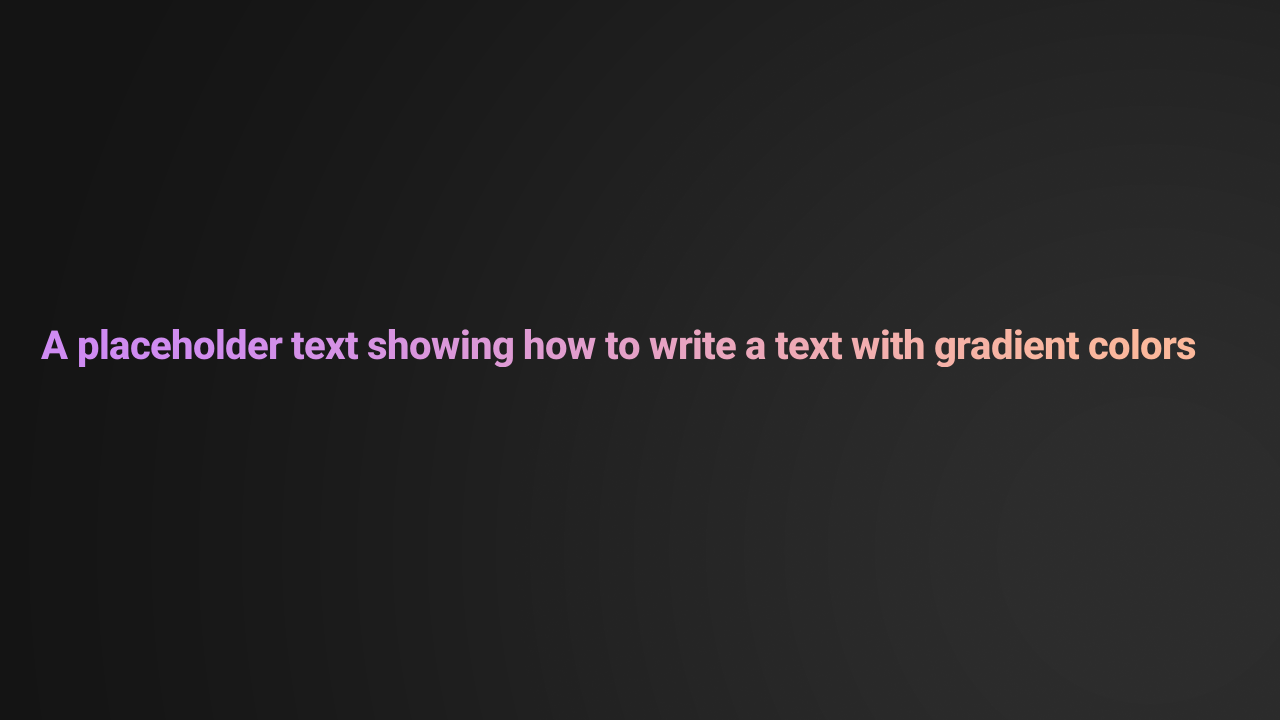
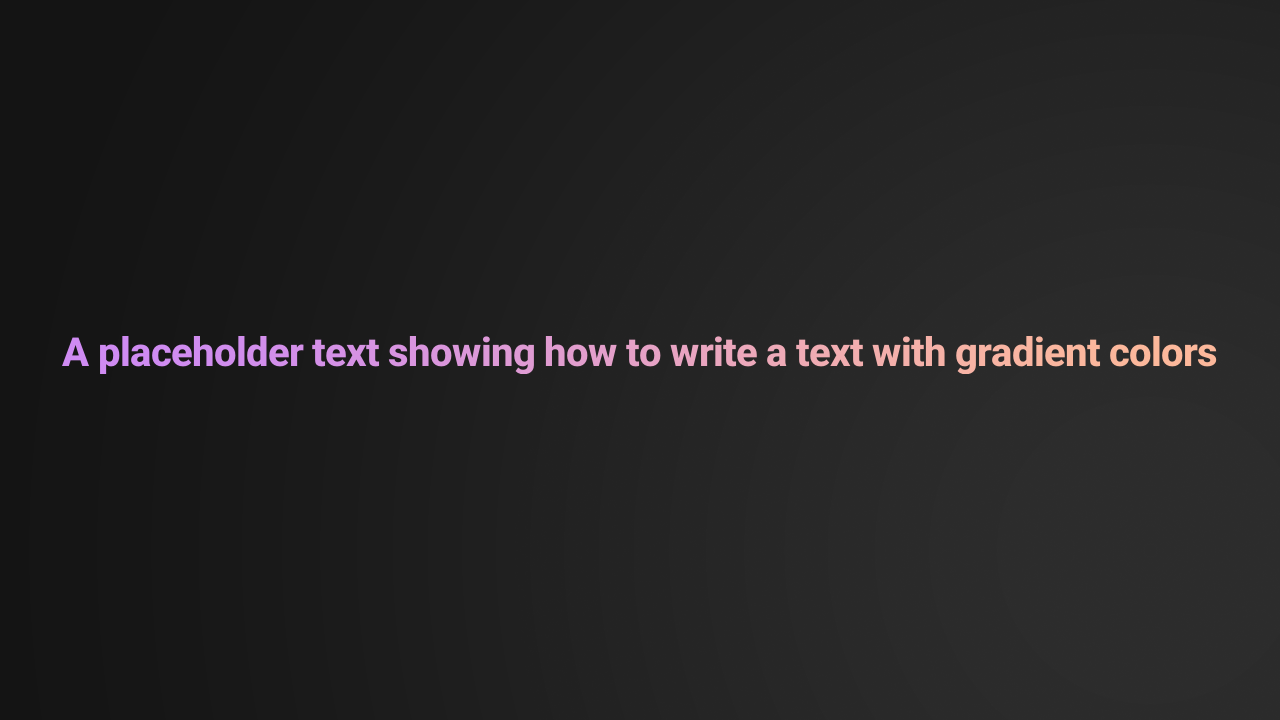
chore: update the examples & readme with the API changes

Changed region(s): [[0.0312, 0.4583, 0.9688, 0.5194]]

diff --git a/example/banner/main.go b/example/banner/main.go
@@ -10,7 +10,7 @@ import (
 )
 
 func main() {
-	face := writer.NewFaceFromFile("./font.ttf")
+	face := writer.NewFaceFromFile("./fonts/Vazirmatn-ExtraBold.ttf")
 	defer face.Close()
 
 	img := painter.New(1280, 720)
@@ -27,7 +27,7 @@ func writeTitle(face *writer.Face, img draw.Image) {
 	font := writer.NewFont(face, 200)
 	defer font.Close()
 
-	w, err := writer.NewWriter(font, "WRITER", writer.Options{})
+	w, err := writer.NewWriter(font, "WRITER", writer.DefaultOptions)
 	if err != nil {
 		panic(err)
 	}
@@ -45,7 +45,7 @@ func writeDescription(face *writer.Face, img draw.Image) {
 	font := writer.NewFont(face, 35)
 	defer font.Close()
 
-	w, err := writer.NewWriter(font, "Write any text on any image easily!", writer.Options{})
+	w, err := writer.NewWriter(font, "Write any text on any image easily!", writer.DefaultOptions)
 	if err != nil {
 		panic(err)
 	}
@@ -60,7 +60,7 @@ func writeRepoURL(face *writer.Face, img draw.Image) {
 	font := writer.NewFont(face, 25)
 	defer font.Close()
 
-	w, err := writer.NewWriter(font, "github.com/haashemi/writer", writer.Options{})
+	w, err := writer.NewWriter(font, "github.com/haashemi/writer", writer.DefaultOptions)
 	if err != nil {
 		panic(err)
 	}

diff --git a/example/basic/main.go b/example/basic/main.go
@@ -10,7 +10,7 @@ import (
 
 func main() {
 	// Load face from the font file
-	face := writer.NewFaceFromFile("./font.ttf")
+	face := writer.NewFaceFromFile("./fonts/Vazirmatn-ExtraBold.ttf")
 	defer face.Close()
 
 	// Create a font from the face
@@ -18,7 +18,7 @@ func main() {
 	defer font.Close()
 
 	// Create a new writer instance.
-	w, _ := writer.NewWriter(font, "Hello World!", writer.Options{})
+	w, _ := writer.NewWriter(font, "Hello World!", writer.DefaultOptions)
 	defer w.Close()
 
 	// Create a new image. (doesn't matter how.)

diff --git a/example/bidi-text/main.go b/example/bidi-text/main.go
@@ -11,7 +11,7 @@ import (
 
 const (
 	Text     = "حتی متن bi-directional با عدد (1234) هم درست می نویسه!"
-	FontPath = "./font.ttf" // update it with a path to your font
+	FontPath = "./fonts/Vazirmatn-Medium.ttf" // update it with a path to your font
 )
 
 func main() {

diff --git a/example/gradient-text/main.go b/example/gradient-text/main.go
@@ -10,7 +10,7 @@ import (
 
 const (
 	Text     = "A placeholder text showing how to write a text with gradient colors"
-	FontPath = "./font.ttf" // update it with a path to your font
+	FontPath = "./fonts/Vazirmatn-ExtraBold.ttf" // update it with a path to your font
 )
 
 func main() {

diff --git a/README.md b/README.md
@@ -34,7 +34,7 @@ import (
 
 func main() {
 	// Load face from the font file
-	face := writer.NewFaceFromFile("./font.ttf")
+	face := writer.NewFaceFromFile("./fonts/Vazirmatn-ExtraBold.ttf")
 	defer face.Close()
 
 	// Create a font from the face
@@ -42,14 +42,14 @@ func main() {
 	defer font.Close()
 
 	// Create a new writer instance.
-	w, _ := writer.NewWriter(font, "Hello World!", writer.Options{})
+	w, _ := writer.NewWriter(font, "Hello World!", writer.DefaultOptions)
 	defer w.Close()
 
 	// Create a new image. (doesn't matter how.)
 	img := image.NewNRGBA(w.Bounds())
 
 	// Write it on your image
-	w.Write(img, w.Bounds(), image.White)
+	w.Write(img, image.Point{}, image.White)
 
 	// Save the image. (doesn't matter how.)
 	f, _ := os.Create("basic/result.png")
